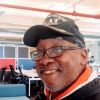
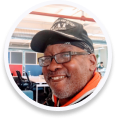
fix: optimize for mobile

diff --git a/src/app/landing/LandingPage.jsx b/src/app/landing/LandingPage.jsx
@@ -65,11 +65,11 @@ class LandingPage extends Component {
               <source
                 className="OnboardingImage"
                 media="(min-aspect-ratio: 2/3)"
-                srcSet="img/landing_page/map_tablet.png"
+                srcSet="img/landing_page/step1.png"
               />
               <img
                 className="OnboardingImage"
-                src="img/landing_page/map_narrow.png"
+                src="img/landing_page/step1_mobile.png"
                 alt="map showing food, clothing, and personal care markers"
               />
             </picture>
@@ -77,14 +77,24 @@ class LandingPage extends Component {
 
           <div className="Section">
             <div className="OnboardingSectionNumber">2</div>
-
             <div className="OnboardingText">
               <h2>Find providers that will actually serve <span className="Emphasis">you</span></h2>
               <p className="text-lighter">
                 Filter or answer a few questions and we will show you locations that meet your specific needs, from age to gender to family situations.
               </p>
             </div>
-            <img className="OnboardingImage" src="img/landing_page/welcome.jpg" alt="" />
+            <picture>
+              <source
+                className="OnboardingImage"
+                media="(min-aspect-ratio: 2/3)"
+                srcSet="img/landing_page/step2.png"
+              />
+              <img
+                className="OnboardingImage"
+                src="img/landing_page/step2_mobile.png"
+                alt="Welcome sign"
+              />
+            </picture>
           </div>
 
           <div className="Section">
@@ -99,10 +109,15 @@ class LandingPage extends Component {
             </div>
 
             <picture>
+              <source
+                className="OnboardingImage"
+                media="(min-aspect-ratio: 2/3)"
+                srcSet="img/landing_page/step3.png"
+              />
               <img
                 className="OnboardingImage"
-                src="img/landing_page/step3.png"
-                alt=""
+                src="img/landing_page/step3_mobile.png"
+                alt="map showing food, clothing, and personal care markers"
               />
             </picture>
           </div>
@@ -112,17 +127,26 @@ class LandingPage extends Component {
           <div className="TestimonialsInner">
             <h3 className="TestimonialsTitle">GoGettas are saying</h3>
             <Testimonial
-              img="img/landing_page/testimonial_jeffrey.png"
+              img={{
+                small: 'img/landing_page/testimonial_jeffrey_mobile.png',
+                large: 'img/landing_page/testimonial_jeffrey.png',
+              }}
               name="Jeffrey"
               text="I know this information is good, it’s from people like me"
             />
             <Testimonial
-              img="img/landing_page/testimonial_kenia.png"
+              img={{
+                small: 'img/landing_page/testimonial_kenia_mobile.png',
+                large: 'img/landing_page/testimonial_kenia.png',
+              }}
               name="Kenia"
               text="Usually, if I need something, I ask. But this is faster, easier, better."
             />
             <Testimonial
-              img="img/landing_page/testimonial_gayle.png"
+              img={{
+                small: 'img/landing_page/testimonial_gia_mobile.png',
+                large: 'img/landing_page/testimonial_gia.png',
+              }}
               name="Gia"
               text="Boom! I go in and there’s all this information."
             />
@@ -136,87 +160,138 @@ class LandingPage extends Component {
             <PartnerPicture
               link="http://www.aliforneycenter.org/"
               alt="Ali Forney logo"
-              src="img/partners/ali_forney_logo.png"
+              img={{
+                small: 'img/partners/ali_forney_mobile_logo.png',
+                large: 'img/partners/ali_forney_logo.png',
+              }}
             />
             <PartnerPicture
               link="https://www.breadandlife.org/"
               alt="St. Johns' logo"
-              src="img/partners/st_john_logo.png"
+              img={{
+                small: 'img/partners/st_john_mobile_logo.png',
+                large: 'img/partners/st_john_logo.png',
+              }}
             />
             <PartnerPicture
               link="https://www.careforthehomeless.org/"
               alt="care for the homeless logo"
-              src="img/partners/care_for_the_homeless_logo.png"
+              img={{
+                small: 'img/partners/care_for_the_homeless_mobile_logo.png',
+                large: 'img/partners/care_for_the_homeless_logo.png',
+              }}
             />
             <PartnerPicture
               link="https://civichall.org/"
               alt="Civic Hall logo"
-              src="img/partners/civic_hall_logo.svg"
+              img={{
+                small: 'img/partners/civic_hall_mobile_logo.png',
+                large: 'img/partners/civic_hall_logo.png',
+              }}
             />
             <PartnerPicture
               link="http://www.edalliance.org/"
               alt="Education Alliance logo"
-              src="img/partners/educational_alliance_logo.png"
+              img={{
+                small: 'img/partners/educational_alliance_mobile_logo.png',
+                large: 'img/partners/educational_alliance_logo.png',
+              }}
             />
             <PartnerPicture
               link="https://www.nycfoodpolicy.org/"
               alt="NYC Food Policy logo"
-              src="img/partners/hunter_college.png"
+              img={{
+                small: 'img/partners/hunter_college_mobile.png',
+                large: 'img/partners/hunter_college.png',
+              }}
             />
             <PartnerPicture
               link="https://www.infoxchange.org/au/"
               alt="InfoXChange logo"
-              src="img/partners/infoxchange_logo.png"
+              img={{
+                small: 'img/partners/infoxchange_mobile_logo.png',
+                large: 'img/partners/infoxchange_logo.png',
+              }}
             />
             <PartnerPicture
               link="http://minnow.io/"
               alt="Minnow logo"
-              src="img/partners/minnow_logo.png"
+              img={{
+                small: 'img/partners/minnow_mobile_logo.png',
+                large: 'img/partners/minnow_logo.png',
+              }}
             />
             <PartnerPicture
               link="http://neighborstogether.org/"
               alt="neighbors together logo"
-              src="img/partners/neighbors_together_logo.png"
+              img={{
+                small: 'img/partners/neighbors_together_mobile_logo.png',
+                large: 'img/partners/neighbors_together_logo.png',
+              }}
             />
             <PartnerPicture
               link="https://www.ncsinc.org/"
               alt="Neighborhood Coalition For Shelter logo"
-              src="img/partners/neighborhood_coalition_for_shelter_logo.png"
+              img={{
+                small: 'img/partners/neighborhood_coalition_for_shelter_mobile_logo.png',
+                large: 'img/partners/neighborhood_coalition_for_shelter_logo.png',
+              }}
             />
             <PartnerPicture
               link="https://www1.nyc.gov/site/dhs/index.page"
               alt="nyc dhs logo"
-              src="img/partners/nyc_logo.png"
+              img={{
+                small: 'img/partners/nyc_mobile_logo.png',
+                large: 'img/partners/nyc_logo.png',
+              }}
             />
             <PartnerPicture
               link="http://www.law.nyu.edu/"
               alt="nyu law logo"
-              src="img/partners/nyu_law_logo.png"
+              img={{
+                small: 'img/partners/nyu_law_mobile_logo.png',
+                large: 'img/partners/nyu_law_logo.png',
+              }}
             />
             <PartnerPicture
               link="https://opencollective.com/streetlives"
               alt="Open Collective logo"
-              src="img/partners/open_collective_logo.png"
+              img={{
+                small: 'img/partners/open_collective_mobile_logo.png',
+                large: 'img/partners/open_collective_logo.png',
+              }}
             />
             <PartnerPicture
               link="https://openreferral.org/"
               alt="open referral logo"
-              src="img/partners/openreferral_logo.png"
+              img={{
+                small: 'img/partners/openreferral_mobile_logo.png',
+                large: 'img/partners/openreferral_logo.png',
+              }}
             />
             <PartnerPicture
               link="https://holyapostlessoupkitchen.org/"
               alt="Holy Apostles logo"
-              src="img/partners/holy_apostles_logo.png"
+              img={{
+                small: 'img/partners/holy_apostles_mobile_logo.png',
+                large: 'img/partners/holy_apostles_logo.png',
+              }}
             />
             <PartnerPicture
               link="https://aws.amazon.com/"
               alt="aws logo"
-              src="img/partners/aws_logo.png"
+              img={{
+                small: 'img/partners/aws_mobile_logo.png',
+                large: 'img/partners/aws_logo.png',
+              }}
             />
             <PartnerPicture
               link="https://www.usdigitalresponse.org/"
               alt="US Digital Response logo"
-              src="img/partners/us_digital_response_logo.png"
+              img={{
+                small: 'img/partners/us_digital_response_mobile_logo.png',
+                large: 'img/partners/us_digital_response_logo.png',
+              }}
             />
           </div>
           <p className="text-lighter">Food service information provided with the help of Hunter College NYC Food Policy Center.</p>
@@ -234,7 +309,18 @@ class LandingPage extends Component {
             </p>
           </div>
           <div>
-            <img src="img/streetlives_text_logo.png" alt="Streetlives logo" className="about-logo" />
+            <picture>
+              <source
+                className="OnboardingImage"
+                media="(min-aspect-ratio: 2/3)"
+                srcSet="img/streetlives_wtext_logo.png"
+              />
+              <img
+                src="img/streetlives_text_mobile_logo.png"
+                alt="Streetlives logo"
+                className="about-logo"
+              />
+            </picture>
           </div>
         </div>
 

diff --git a/src/app/landing/Testimonial.jsx b/src/app/landing/Testimonial.jsx
@@ -1,14 +1,35 @@
 import React from 'react';
+import PropTypes from 'prop-types';
 import './Testimonial.css';
 
 const Testimonial = ({ name, img, text }) => (
   <div className="Testimonial">
-    <img src={img} className="Testimonial-image" alt={`${name}'s face`} />
+    <picture>
+      <source
+        className="Testimonial-image"
+        media="(min-aspect-ratio: 2/3)"
+        srcSet={img.large}
+        alt={`${name}'s face`}
+      />
+      <img
+        className="Testimonial-image"
+        src={img.small}
+        alt={`${name}'s face`}
+      />
+    </picture>
     <div className="Testimonial-separator" />
-
     <div className="Testimonial-text">“{text}”</div>
     <div className="Testimonial-name">– {name}</div>
   </div>
 );
+
+Testimonial.propTypes = {
+  name: PropTypes.string.isRequired,
+  img: PropTypes.shape({
+    small: PropTypes.string,
+    large: PropTypes.string,
+  }),
+  text: PropTypes.string.isRequired,
+};
 
 export default Testimonial;

diff --git a/src/app/landing/PartnerPicture.jsx b/src/app/landing/PartnerPicture.jsx
@@ -1,12 +1,33 @@
 import React from 'react';
+import PropTypes from 'prop-types';
 import './PartnerPicture.css';
 
-const PartnerPicture = ({ src, alt, link }) => (
+const PartnerPicture = ({ img, alt = '', link }) => (
   <div className="PartnerPicture">
     <a href={link}>
-      <img src={src} alt={alt} />
+      <picture>
+        <source
+          className="OnboardingImage"
+          media="(min-aspect-ratio: 2/3)"
+          srcSet={img.large}
+        />
+        <img
+          className="OnboardingImage"
+          src={img.small}
+          alt={alt}
+        />
+      </picture>
     </a>
   </div>
 );
+
+PartnerPicture.propTypes = {
+  img: PropTypes.shape({
+    small: PropTypes.string,
+    large: PropTypes.string,
+  }),
+  alt: PropTypes.string,
+  link: PropTypes.string.isRequired,
+};
 
 export default PartnerPicture;

diff --git a/src/app/landing/LandingPage.css b/src/app/landing/LandingPage.css
@@ -248,4 +248,12 @@
   .LandingPage h3 {
     font-size: 11px;
   }
+
+  .LandingPage .IntroBody {
+    background: linear-gradient(to bottom, rgba(0, 0, 0, 0), rgba(0, 0, 0, 0.6)),url('/img/landing_page/top1_mobile.png') no-repeat center center fixed;
+    background-position: 30% 0%;
+    background-size: cover;
+  /* color: #FFFFFF; */
+  /* padding: 15vh 0px 15vh 0px; */
+  }
 }

diff --git a/src/app/landing/Testimonial.css b/src/app/landing/Testimonial.css
@@ -11,9 +11,9 @@
 }
 
 .Testimonial-image {
-  border-radius: 100%;
+  /* border-radius: 100%;
   border: 2px solid white;
-  box-shadow: 0px 4px 4px rgba(0, 0, 0, 0.25);
+  box-shadow: 0px 4px 4px rgba(0, 0, 0, 0.25); */
 }
 
 .Testimonial-separator {
